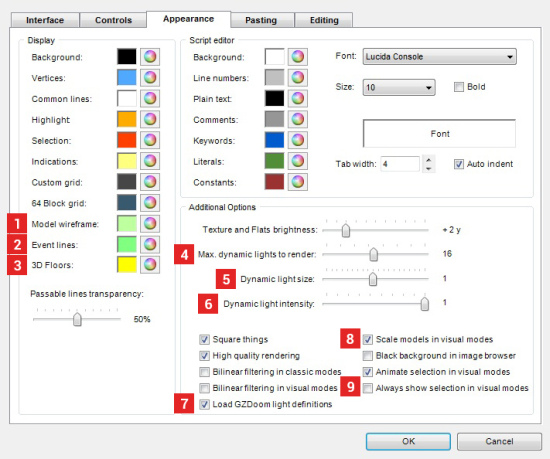
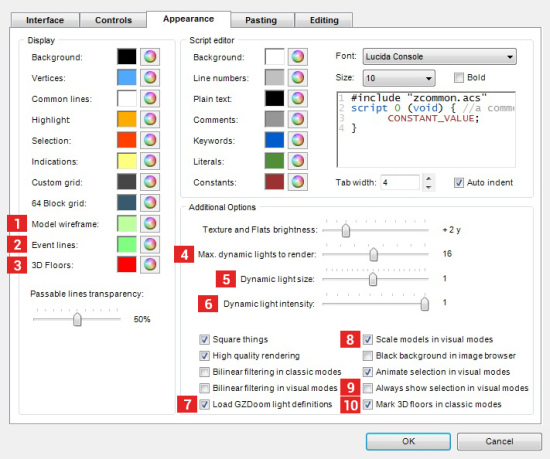
Classic modes: 3D floor indicators can be disabled in preferences (Preferences -> Appearance -> Mark 3D floors in classic modes). Updated documentation.

diff --git a/Help/gzdb/preferences.html b/Help/gzdb/preferences.html
@@ -12,6 +12,10 @@
 	color: #990000;
 	font-weight: bold;
 }
+.style4 {
+	color: #FFFFFF;
+	font-weight: bold;
+}
 -->
     </style>
 </head>
@@ -30,34 +34,42 @@
 	<p>There are several new options avaliable in GZDoom Builder's <strong>Preferences window</strong> (F5):</p>
 	<table valign="top" width="100%" border="0" cellspacing="3" cellpadding="3">
   <tr valign="top">
-    <td width="550px"><img src="preferences1.jpg" /></td>
+    <td style="background-color:#333333" colspan="2"><h3 class="style4">Interface tab</h3></td>
+    </tr>
+  <tr valign="top">
     <td><p><strong>1. Vertex scale factor:</strong> controls the size of vertex handles.</p>
       <p><strong><a name="synch_camera" id="synch_camera"></a>2.<a href="features/all_modes/synch_camera.html"> Sync camera position between 2D and 3D modes</a>:</strong> when enabled, GZDoom Builder will center 2D-mode on Visual Camera position when you leave Visual mode, and will  place Visual Camera at cursor position when you toggle from 2D-mode to Visual   Mode (unless you have Visual Mode camera thing in your map).</p>
-      <p><strong>3. Rendering toolbar:</strong> if enabled, <a href="features/general/rendering_toolbar.html">Rendering toolbar</a> will be shown in the main editing window.</p>
-      </td>
+      <p><strong>3. Rendering toolbar:</strong> if enabled, <a href="features/general/rendering_toolbar.html">Rendering toolbar</a> will be shown in the main editing window.</p>      </td>
+    <td><img src="preferences1.jpg" alt="" /></td>
   </tr>
   <tr valign="top">
-    <td><img src="preferences2.jpg" /></td>
+    <td style="background-color:#333333" colspan="2"><h3 class="style4">Appearance tab</h3></td>
+    <td>&nbsp;</td>
+  </tr>
+  <tr valign="top">
     <td><p><strong>1. Model wireframe color:</strong> lets you choose a color, which is used to render model wireframe in 2D-mode.</p>
       <p><strong>2. Color of <a href="features/all_modes/event_lines.html">event lines</a>.</strong></p>
       <p><strong>3. Color, used in Classic modes to indicate that sector has 3D floors.</strong></p>
-      <p><strong>4. Number of newly created sectors</strong> to colourise using different color.  Possible values are [0..8].</p>
-      <p><strong>5. Maximum dynamic lights to render:</strong> lets you choose how many dynamic lights to render in Visual mode. Decrease this to improve performance when Dynamic Lights Rendering is on. Possible values are [1..32].</p>
-      <p><strong>6. Dynamic light size:</strong> this option mimics GZDoom's &quot;light size&quot; option.</p>
-      <p><strong>7. Dynamic light intensity:</strong> this option mimics GZDoom's &quot;light intensity&quot; option.</p>
-      <p><strong>8. Load GZDoom light definitions:</strong> if enabled, GZDoom's built-in GLDEFS dynamic light definitions will be loaded. <span class="style1">Warning:</span> if a map is loaded, you'll need to reload resources after changing this option to apply the changes.</p>
-      <p><strong>9. Scale models in visual modes:</strong> if enabled, height of models will be scaled down by 15%  in Visual mode to mimick GZDoom's way of rendering.</p>
-      <p><strong>10. Always show selection in visual modes:</strong> if enabled, selected surfaces will be highlighted in Visual mode
-      even if &quot;Show highlight&quot; mode is disabled Doom Builder 2 behaviour).</p></td>
+      <p><strong>4. Maximum dynamic lights to render:</strong> lets you choose how many dynamic lights to render in Visual mode. Decrease this to improve performance when Dynamic Lights Rendering is on. Possible values are [1..32].</p>
+      <p><strong>5. Dynamic light size:</strong> this option mimics GZDoom's &quot;light size&quot; option.</p>
+      <p><strong>6. Dynamic light intensity:</strong> this option mimics GZDoom's &quot;light intensity&quot; option.</p>
+      <p><strong>7. Load GZDoom light definitions:</strong> if enabled, GZDoom's built-in GLDEFS dynamic light definitions will be loaded. <span class="style1">Warning:</span> if a map is loaded, you'll need to reload resources after changing this option to apply the changes.</p>
+      <p><strong>8. Scale models in visual modes:</strong> if enabled, height of models will be scaled down by 15%  in Visual mode to mimick GZDoom's way of rendering.</p>
+      <p><strong>9. Always show selection in visual modes:</strong> if enabled, selected surfaces will be highlighted in Visual mode
+      even if &quot;Show highlight&quot; mode is disabled Doom Builder 2 behaviour).</p>
+      <p><strong><a name="markextrafloors" id="markextrafloors"></a>10. Mark 3D floors in classic modes:</strong> when enabled, linedefs of sectors with 3d floors will be marked using &quot;3D Floors&quot; color.</p></td>
+    <td><img src="preferences2.jpg" alt="" /></td>
   </tr>
   <tr valign="top">
-    <td><img src="preferences3.jpg" /></td>
+    <td style="background-color:#333333" colspan="2"><h3 class="style4">Editing tab</h3></td>
+    <td>&nbsp;</td>
+  <tr valign="top">
     <td><p><strong>1. Auto-align textures on newly created linedefs.</strong> When enabled, auto texture alignment will be applied to sidedefs created after drawing deometry.</p>
       <p><strong>2. Try to align horizontal texture offset of dragged geometry.</strong> When enabled, texture offsets of sidedefs, adjacent to dragged geometry, will be aligned to dragged geometry.</p>
       <p><strong>3. Don't move selection if any part of it is outside of map boundary.</strong> When enabled, geometry outisde of map boundaries can not be dragged. When disabled, geometry will be moved inside of map boundary, most likely destroying sector shapes in process (DB2 behaviour).</p>
-      <p><strong><a name="synch_selection" id="synch_selection"></a>4. <a href="features/all_modes/synch_selection.html">Synchronise selection between Visual and Classic modes</a>.</strong></p>
-      </td>
-</table>
+      <p><strong><a name="synch_selection" id="synch_selection"></a>4. <a href="features/all_modes/synch_selection.html">Synchronise selection between Visual and Classic modes</a>.</strong></p>      </td>
+    <td><img src="preferences3.jpg" alt="" /></td>
+  </table>
 
     
 </div>

diff --git a/Help/gzdb/features/features.html b/Help/gzdb/features/features.html
@@ -101,7 +101,8 @@
         <li><a href="classic_modes/mode_drawcurve.html"><span class="style1"><strong>[new]</strong></span> Draw Curve mode</a>.</li>
         <li><a href="classic_modes/mode_drawbridge.html">Bridge mode</a>.</li>
         <li><a href="classic_modes/mode_snapverts.html">Snap vertices mode</a>.</li>
-        <li><span class="style5">[new]</span> 3D floor indication (color can be changed in <strong>Preferences -&gt; Appearance -&gt; 3D Floors</strong>) <input class="spoilerbutton" type="button" onclick="ToggleSpoiler(this);" href="javascript:void(0);" value="Show image"/>
+        <li><span class="style5">[new]</span> 3D floor indication (color can be changed in <strong>Preferences -&gt; Appearance -&gt; 3D Floors</strong>, the setting can be disabled in <a href="../preferences.html#markextrafloors">Preferences</a>) 
+          <input class="spoilerbutton" type="button" onclick="ToggleSpoiler(this);" href="javascript:void(0);" value="Show image"/>
           <div style="display: none; margin: 0px; padding: 6px; border: 1px inset;"> <img src="classic_modes/3dfloor_marks.jpg" alt="" /></div>
         </li>
         <li>Line angle and front side direction are displayed when a line is drawn in Draw Geometry mode.</li>

diff --git a/Source/Core/Windows/PreferencesForm.Designer.cs b/Source/Core/Windows/PreferencesForm.Designer.cs
@@ -159,6 +159,7 @@ namespace CodeImp.DoomBuilder.Windows
 			this.label16 = new System.Windows.Forms.Label();
 			this.pasteoptions = new CodeImp.DoomBuilder.Controls.PasteOptionsControl();
 			this.toolTip1 = new System.Windows.Forms.ToolTip(this.components);
+			this.cbMarkExtraFloors = new System.Windows.Forms.CheckBox();
 			label7 = new System.Windows.Forms.Label();
 			label6 = new System.Windows.Forms.Label();
 			label5 = new System.Windows.Forms.Label();
@@ -1271,6 +1272,7 @@ namespace CodeImp.DoomBuilder.Windows
 			this.appearancegroup1.Anchor = ((System.Windows.Forms.AnchorStyles)((((System.Windows.Forms.AnchorStyles.Top | System.Windows.Forms.AnchorStyles.Bottom)
 						| System.Windows.Forms.AnchorStyles.Left)
 						| System.Windows.Forms.AnchorStyles.Right)));
+			this.appearancegroup1.Controls.Add(this.cbMarkExtraFloors);
 			this.appearancegroup1.Controls.Add(this.cbLoadGameGldefs);
 			this.appearancegroup1.Controls.Add(this.cbOldHighlightMode);
 			this.appearancegroup1.Controls.Add(label21);
@@ -1717,6 +1719,18 @@ namespace CodeImp.DoomBuilder.Windows
 			this.pasteoptions.Size = new System.Drawing.Size(666, 427);
 			this.pasteoptions.TabIndex = 0;
 			// 
+			// cbMarkExtraFloors
+			// 
+			this.cbMarkExtraFloors.AutoSize = true;
+			this.cbMarkExtraFloors.Location = new System.Drawing.Point(236, 254);
+			this.cbMarkExtraFloors.Name = "cbMarkExtraFloors";
+			this.cbMarkExtraFloors.Size = new System.Drawing.Size(179, 18);
+			this.cbMarkExtraFloors.TabIndex = 35;
+			this.cbMarkExtraFloors.Text = "Mark 3D floors in classic modes";
+			this.toolTip1.SetToolTip(this.cbMarkExtraFloors, "When enabled, linedefs of sectors with 3d floors will be marked using \"3D Floors\"" +
+					" color.");
+			this.cbMarkExtraFloors.UseVisualStyleBackColor = true;
+			// 
 			// PreferencesForm
 			// 
 			this.AcceptButton = this.apply;
@@ -1900,5 +1914,6 @@ namespace CodeImp.DoomBuilder.Windows
 		private CodeImp.DoomBuilder.Controls.ColorControl color3dFloors;
 		private System.Windows.Forms.TextBox actiondescription;
 		private System.Windows.Forms.RichTextBox fontpreview;
+		private System.Windows.Forms.CheckBox cbMarkExtraFloors;
 	}
 }

diff --git a/Source/Core/Config/ProgramConfiguration.cs b/Source/Core/Config/ProgramConfiguration.cs
@@ -111,6 +111,7 @@ namespace CodeImp.DoomBuilder.Config
 		private bool gzLoadDefaultLightDefinitions;
 		private bool gzForceDefaultTextures;
 		private string lastUsedConfigName;
+		private bool gzMarkExtraFloors;
 		
 		// These are not stored in the configuration, only used at runtime
 		private string defaulttexture;
@@ -196,7 +197,8 @@ namespace CodeImp.DoomBuilder.Config
 		public bool GZLoadDefaultLightDefinitions { get { return gzLoadDefaultLightDefinitions; } internal set { gzLoadDefaultLightDefinitions = value; } }
 		public bool GZForceDefaultTextures { get { return gzForceDefaultTextures; } internal set { gzForceDefaultTextures = value; } }
 		public string LastUsedConfigName { get { return lastUsedConfigName; } internal set { lastUsedConfigName = value; } }
-		
+		public bool GZMarkExtraFloors { get { return gzMarkExtraFloors; } internal set { gzMarkExtraFloors = value; } }
+
 		public string DefaultTexture { get { return defaulttexture; } set { defaulttexture = value; } }
 		public string DefaultFloorTexture { get { return defaultfloortexture; } set { defaultfloortexture = value; } }
 		public string DefaultCeilingTexture { get { return defaultceiltexture; } set { defaultceiltexture = value; } }
@@ -296,6 +298,7 @@ namespace CodeImp.DoomBuilder.Config
 				gzVisualVertexSize = cfg.ReadSetting("gzvisualvertexsize", 6);
 				gzLoadDefaultLightDefinitions = cfg.ReadSetting("gzloaddefaultlightdefinitions", true);
 				lastUsedConfigName = cfg.ReadSetting("lastusedconfigname", "");
+				gzMarkExtraFloors = cfg.ReadSetting("gzmarkextrafloors", true);
 				
 				// Success
 				return true;
@@ -374,6 +377,7 @@ namespace CodeImp.DoomBuilder.Config
 			cfg.WriteSetting("gzshowvisualvertices", gzShowVisualVertices);
 			cfg.WriteSetting("gzvisualvertexsize", gzVisualVertexSize);
 			cfg.WriteSetting("gzloaddefaultlightdefinitions", gzLoadDefaultLightDefinitions);
+			cfg.WriteSetting("gzmarkextrafloors", gzMarkExtraFloors);
 			if(!string.IsNullOrEmpty(lastUsedConfigName))
 				cfg.WriteSetting("lastusedconfigname", lastUsedConfigName);
 			

diff --git a/Source/Core/Windows/PreferencesForm.cs b/Source/Core/Windows/PreferencesForm.cs
@@ -104,6 +104,7 @@ namespace CodeImp.DoomBuilder.Windows
             vertexScale.Value = General.Clamp((int)(General.Settings.GZVertexScale2D), vertexScale.Minimum, vertexScale.Maximum);
             vertexScaleLabel.Text = vertexScale.Value * 100 + "%" + (vertexScale.Value == 1 ? " (default)" : "");
 			cbLoadGameGldefs.Checked = General.Settings.GZLoadDefaultLightDefinitions;
+			cbMarkExtraFloors.Checked = General.Settings.GZMarkExtraFloors;
 			
 			// Fill fonts list
 			scriptfontname.BeginUpdate();
@@ -289,6 +290,7 @@ namespace CodeImp.DoomBuilder.Windows
             General.Settings.GZVertexScale2D = vertexScale.Value;
             General.Settings.GZOldHighlightMode = cbOldHighlightMode.Checked;
 			General.Settings.GZLoadDefaultLightDefinitions = cbLoadGameGldefs.Checked;
+			General.Settings.GZMarkExtraFloors = cbMarkExtraFloors.Checked;
 
 			// Paste options
 			General.Settings.PasteOptions = pasteoptions.GetOptions();

diff --git a/Source/Core/Rendering/Renderer2D.cs b/Source/Core/Rendering/Renderer2D.cs
@@ -1592,7 +1592,7 @@ namespace CodeImp.DoomBuilder.Rendering
 			Vector2D v2 = l.End.Position.GetTransformed(translatex, translatey, scale, -scale);
 
 			// Draw line. mxd: added 3d-floor indication
-			if(l.ExtraFloorFlag) {
+			if(l.ExtraFloorFlag && General.Settings.GZMarkExtraFloors) {
 				plotter.DrawLine3DFloor(v1, v2, ref c, General.Colors.ThreeDFloor);
 			} else {
 				plotter.DrawLineSolid((int)v1.x, (int)v1.y, (int)v2.x, (int)v2.y, ref c);
